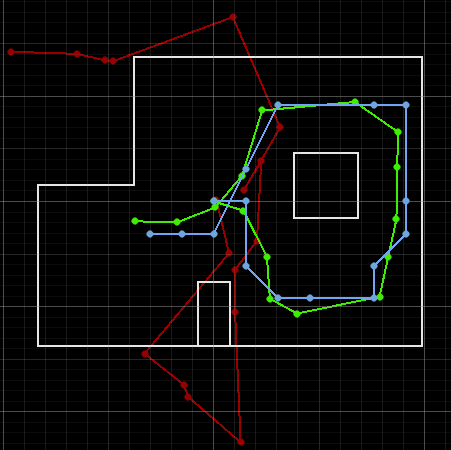
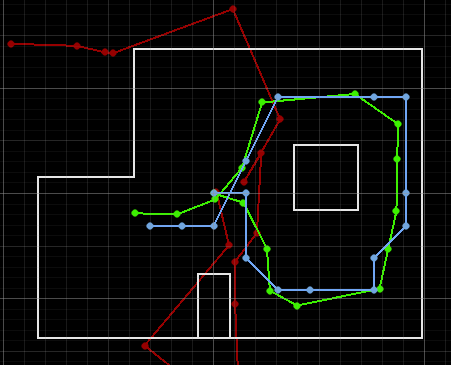
Lab10 done

diff --git a/index.html b/index.html
@@ -255,6 +255,27 @@
                         </div>
                     </div>
 
+                    <!-- Portfolio Item 10-->
+                    <div class="col-md-6 col-lg-4 mb-5">
+                        <div class="portfolio-item mx-auto d-flex flex-column justify-content-center align-items-center p-3" 
+                             data-bs-toggle="modal" data-bs-target="#portfolioModal10"
+                             style="background-color: #1D83C1; border-radius: 10px; padding: 20px; text-align: center; height: 300px; width: 100%;">
+                            
+                            <div class="portfolio-item-caption d-flex align-items-center justify-content-center h-100 w-100">
+                                <div class="portfolio-item-caption-content text-center text-white">
+                                    <i class="fas fa-plus fa-3x"></i>
+                                </div>
+                            </div>
+                            
+                            <!-- Centered Image -->
+                            <img class="img-fluid" src="assets/img/portfolio/local_traj3.png" 
+                                 alt="..." style="max-width: 80%; max-height: 70%; object-fit: contain; display: block; margin: 0 auto;">
+                            
+                            <!-- Bold, Centered Text Below Image -->
+                            <p class="fw-bold mt-4 mb-2 text-center" style="color: white; font-size: 32px;">Lab 10</p>
+                        </div>
+                    </div>
+
 
                 </div>
             </div>
@@ -2154,6 +2175,171 @@
                                         </p>
                                         <p>
                                             Despite limited time and only two scans per location, the compiled map already closely resembles the actual map layout. With additional repeated measurements and calibration, these remaining discrepancies can be minimized. Overall, this lab demonstrated the effectiveness of closed-loop orientation control for reliable spatial data acquisition and laid the groundwork for future localization and navigation tasks.
+                                        </p>
+                                        <br>
+
+                                    </div>
+                                    <!-- Close Button-->
+                                    <button class="btn btn-primary mt-4" data-bs-dismiss="modal">
+                                        <i class="fas fa-xmark fa-fw"></i>
+                                        Close Window
+                                    </button>
+                                </div>
+                            </div>
+                        </div>
+                    </div>
+                </div>
+            </div>
+        </div>
+
+        <!-- Portfolio Modal 10-->
+        <div class="portfolio-modal modal fade" id="portfolioModal10" tabindex="-1" aria-labelledby="portfolioModal10" aria-hidden="true">
+            <div class="modal-dialog modal-xl">
+                <div class="modal-content">
+                    <div class="modal-header border-0">
+                        <button class="btn-close" type="button" data-bs-dismiss="modal" aria-label="Close"></button>
+                    </div>
+                    <div class="modal-body text-center pb-5">
+                        <div class="container">
+                            <div class="row justify-content-center">
+                                <div class="col-lg-8">
+                                    <!-- Portfolio Modal - Title-->
+                                    <h2 class="portfolio-modal-title text-secondary text-uppercase mb-0">Lab 10<h3 class="text-warning">Grid Localization using Bayes Filter (Simulation)</h3></h2>
+                                    <!-- Icon Divider-->
+                                    <div class="divider-custom">
+                                        <div class="divider-custom-line"></div>
+                                        <div class="divider-custom-icon"><i class="fas fa-star"></i></div>
+                                        <div class="divider-custom-line"></div>
+                                    </div>
+                                    <!-- Portfolio Modal - Image-->
+                                    <img class="img-fluid rounded mb-5 w-50" src="assets/img/portfolio/local_traj3.png" alt="..." />
+                                    <!-- Portfolio Modal - Text (Lab Writeup)-->
+                                    <div class="text-start">
+                                        <h5>Introduction</h5>
+                                        <p>
+                                            The purpose of this lab is to implement a <strong>grid-based robot localization</strong> system using the <strong>Bayes Filter</strong>. In this system, the robot navigates within a simulated environment, and its location 
+                                            is estimated probabilistically over time by maintaining a belief distribution across a discretized 3D grid of possible states (x, y, θ). This belief is updated in two stages — using <strong>odometry data</strong> during the 
+                                            <strong>prediction step</strong>, and using <strong>sensor readings</strong> during the <strong>update step</strong>.
+                                        </p>
+                                        <p>
+                                            The goal is to localize the robot accurately despite noisy motion and sensor data. This lab demonstrates how motion estimation and sensor correction can be integrated in a Bayesian framework to achieve robust localization.
+                                        </p>
+                                        <br>
+
+                                        <h5>Prelab</h5>
+                                        <p>
+                                            <strong>Background</strong>
+                                            The Bayes Filter maintains a probabilistic estimate of the robot's location. At each time step, it goes through:
+                                            <ul>
+                                                <li><strong>Prediction Phase:</strong> Integrates odometry (control input) to estimate the robot’s movement.</li>
+                                                <li><strong>Update Phase:</strong> Refines the estimate using range measurements from onboard sensors.</li>
+                                            </ul>
+                                            This leads to two types of beliefs:
+                                            <ul>
+                                                <li><strong>Prior belief (bel_bar):</strong> After prediction</li>
+                                                <li><strong>Posterior belief (bel):</strong> After sensor-based correction</li>
+                                            </ul>
+                                            The robot's environment is discretized into a 3D grid of poses (x, y, θ), with each cell representing a possible robot state. We implement five key components to realize the Bayes Filter:
+                                        </p>
+                                        <img class="img-fluid rounded w-75 mb-4 d-block mx-auto mt-2" src="assets/img/portfolio/local_bayes.png" alt="...">
+                                        <br>
+
+                                        <h5>Lab Tasks</h5>
+                                        <p>
+                                            <strong>Compute control</strong>
+                                            <p>
+                                                This function extracts control parameters from odometry: the first rotation (<code>rot1</code>) aligns the robot with its direction of motion, the translation (<code>trans</code>) measures the straight-line distance traveled, and the second rotation (<code>rot2</code>) aligns the robot with its new heading. It uses trigonometry and normalization to ensure angles are within [−180°,+180°]. These control values are used by the <strong>prediction step</strong> and <strong>odometry motion model</strong> to simulate and evaluate the robot’s motion under uncertainty.
+                                            </p>
+                                            <img class="img-fluid rounded w-75 mb-4 d-block mx-auto mt-2" src="assets/img/portfolio/local_control.png" alt="...">
+
+                                            <strong>Odometry Motion Model</strong>
+                                            <p>
+                                                This function models the <strong>uncertainty in robot motion</strong> by computing the likelihood that a given transition between poses is consistent with a control input. It uses the Gaussian distribution to score how likely the observed motion is, based on known noise parameters for rotation and translation. It plays a central role in the <strong>prediction step</strong>, determining how prior belief values propagate to future poses based on motion.
+                                            </p>
+                                            <img class="img-fluid rounded w-75 mb-4 d-block mx-auto mt-2" src="assets/img/portfolio/local_odom.png" alt="...">
+
+                                            <strong>Prediction Step</strong>
+                                            <p>
+                                                The prediction step estimates where the robot could be after applying a motion command, and produces the <strong>prior belief</strong> (<code>bel_bar</code>). It uses <strong>control data from odometry</strong> to determine how likely the robot is to have transitioned from any previous state (<code>px, py, pa</code>) to a new state (<code>cx, cy, ca</code>).
+                                            </p>
+                                            <p>
+                                                To compute this,the algorithm:
+                                            </p>
+                                            <ul>
+                                                <li>Extracts the motion command using <code>compute_control()</code>, which calculates the robot’s relative movement as a tuple (<code>rot1, trans, rot2</code>) based on odometry readings.</li>
+                                                <li>Loops through all <strong>previous states</strong> with significant probability (filtering out very low values to improve efficiency).  </li>
+                                                <li>For each possible <strong>current state</strong>, it computes the likelihood of that transition using the odometry motion model (<code>odom_motion_model()</code>), which applies a Gaussian probability based on the motion noise.</li>
+                                                <li>It then updates the prior belief by multiplying the transition probability by the belief at the previous state and adding that contribution to the current state's prior.</li>
+                                            </ul> 
+                                            <p>
+                                                Finally, it <strong>normalizes the belief grid</strong> <code>bel_bar</code> to ensure the total probability sums to 1. This prior is then used in the <strong>update step</strong>, where sensor data will refine the belief.
+                                            </p>
+                                            <img class="img-fluid rounded w-75 mb-4 d-block mx-auto mt-2" src="assets/img/portfolio/local_pred.png" alt="...">
+
+                                            <strong>Update Step</strong>
+                                            <p>
+                                                This function <strong>updates the belief</strong> <code>bel</code> using sensor measurements. In this implementation, I did not use a separate <code>sensor_model()</code> function. Instead, I chose to perform sensor <strong>likelihood calculations directly</strong> within the <code>update_step()</code> function, which makes the code more efficient and easier to follow. Each time the Bayes filter needs to evaluate the likelihood of a pose, it directly accesses the <strong>expected sensor data</strong> for that pose using <code>mapper.get_views(cx, cy, ca)</code> and compares it with the robot’s actual sensor readings stored in <code>loc.obs_range_data</code>.
+                                            </p>
+                                            <p>
+                                                Each of the 18 individual sensor measurements is evaluated using the <code>loc.gaussian()</code> function, and their probabilities are multiplied together to get the final likelihood <strong>p(z∣x)</strong> for that pose. This likelihood is then multiplied with the prior belief from the prediction step (<code>bel_bar</code>) to compute the updated belief (<code>bel</code>).
+                                            </p>
+                                            <img class="img-fluid rounded w-100 mb-4 d-block mx-auto mt-2" src="assets/img/portfolio/local_update.png" alt="...">
+                                        </p>
+                                        <br>
+
+                                        <h5>Result</h5>
+                                        <p>
+                                            After executing the full trajectory, I observe the localization results in the simulator:
+                                        </p>
+                                        <div class="row justify-content-center text-center">
+                                            <div class="col-md-6">
+                                              <img class="img-fluid rounded w-100 mb-4" src="assets/img/portfolio/local_traj0.png" alt="...">
+                                            </div>
+                                            <div class="col-md-6">
+                                              <img class="img-fluid rounded w-100 mb-4" src="assets/img/portfolio/local_traj1.png" alt="...">
+                                            </div>
+                                        </div>
+                                        <div class="row justify-content-center text-center">
+                                            <div class="col-md-6">
+                                              <img class="img-fluid rounded w-100 mb-4" src="assets/img/portfolio/local_traj2.png" alt="...">
+                                            </div>
+                                            <div class="col-md-6">
+                                              <img class="img-fluid rounded w-100 mb-4" src="assets/img/portfolio/local_traj3.png" alt="...">
+                                            </div>
+                                        </div>
+                                        <p>
+                                            <ul>
+                                                <li>🔴 Red – Odometry: Estimate from wheel encoders only. Accumulates drift quickly.</li>
+                                                <li>🟩 Green – Ground Truth: Actual robot position in simulation.</li>    
+                                                <li>🔵 Blue – Belief: Output of the Bayes filter. It closely tracks the green ground truth path.</li>
+                                            </ul>
+                                        </p>
+                                        <p>
+                                            The belief begins with uncertainty but gradually aligns with the actual path. The odometry alone diverges significantly, demonstrating the importance of using sensor data to correct the estimate.
+                                        </p>
+                                        <br>
+                                        <p>The videos below display the process of the licalization:</p>
+                                        <video width="400" controls class="d-block mx-auto mt-2 w-75">
+                                            <source src="assets/img/portfolio/local_video1.mp4" type="video/mp4">
+                                        </video>
+                                        <video width="400" controls class="d-block mx-auto mt-2 w-75">
+                                            <source src="assets/img/portfolio/local_video2.mp4" type="video/mp4">
+                                        </video>
+                                        <p>Furthermore, the following is the data output during that process:</p>
+                                        <img class="img-fluid rounded w-75 mb-4 d-block mx-auto mt-2" src="assets/img/portfolio/local_stat1.png" alt="...">
+                                        <img class="img-fluid rounded w-75 mb-4 d-block mx-auto mt-2" src="assets/img/portfolio/local_stat2.png" alt="...">
+                                        <img class="img-fluid rounded w-75 mb-4 d-block mx-auto mt-2" src="assets/img/portfolio/local_stat3.png" alt="...">
+                                        <img class="img-fluid rounded w-75 mb-4 d-block mx-auto mt-2" src="assets/img/portfolio/local_stat4.png" alt="...">
+                                        <br>
+
+                                        <h5>Conclusion</h5>
+                                        <p>
+                                            In this lab, we successfully implemented grid localization using a Bayes filter with 3D state estimation. The algorithm integrates:
+                                            <ul>
+                                                <li>Odometry-based motion prediction</li>
+                                                <li>Range-based sensor correction</li>
+                                            </ul>
+                                            This process allowed the robot to maintain an accurate belief of its pose in a simulated environment. The results demonstrate how probabilistic localization significantly outperforms raw odometry, especially in environments with many turns or obstacles.
                                         </p>
                                         <br>
 
